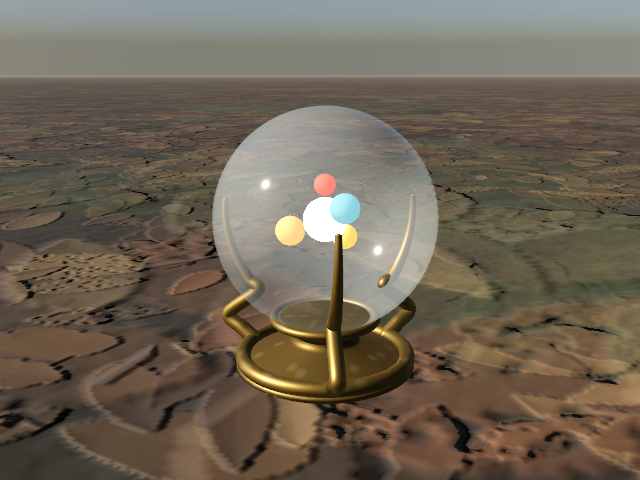
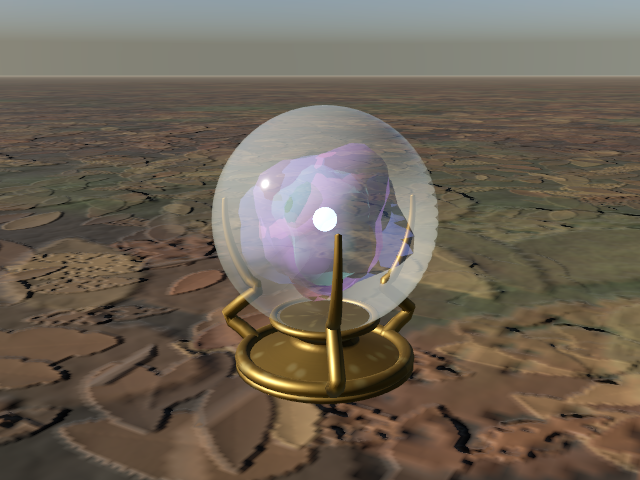
Fix crystal-ball budget; add plush-cat

diff --git a/Sources/RealLibrary/Props/Toys/PlushCat.swift b/Sources/RealLibrary/Props/Toys/PlushCat.swift
@@ -1,0 +1,88 @@
+import simd
+import Foundation
+
+/// Plush toy cat, 30 cm tall sitting: white and orange fuzzy pile, glossy eyes, pink nose, triangular ears and
+/// a curled tail. Faces +Z.
+public struct PlushCat: RealAsset {
+    public static let id = "plush-cat"
+    public static let summary = "Plush cat toy: 30 cm sitting, fuzzy white and orange pile, glossy eyes, pink nose, triangular ears, curled tail."
+    public static let tags = ["prop", "toy", "handheld"]
+    public static let budget = 15_000
+    public static let author = "realityhd"
+    public static let preview = PreviewHint(azimuth: 25, elevation: 12)
+
+    /// Main pile fabric key.
+    public var white = "fabric.plush-white"
+    /// Patch pile fabric key.
+    public var orange = "fabric.plush-orange"
+    /// Fur noise amplitude as a fraction of radius.
+    public var fuzz: Float = 0.035
+    public init() {}
+
+    static func puff(_ size: V3, _ mat: String, sub: Int = 9, amp: Float, ph: Float, exponent: Float = 2.4) -> Surface {
+        Prim.superellipsoid(size, exponent: exponent, subdivisions: sub, material: mat, bulge: { d in
+            let n = sin(d.x * 17 + ph) * sin(d.y * 19 - ph) + sin(d.z * 23 + d.x * 11 + ph * 2) * 0.7
+            return 1 + amp * n
+        })
+    }
+
+    public func build(seed: UInt64) -> LODModel {
+        var m = Model(name: Self.id)
+        func add(_ s: Surface, _ p: V3, rx: Float = 0, ry: Float = 0, rz: Float = 0) {
+            let q = simd_quatf(angle: ry, axis: V3(0, 1, 0)) * simd_quatf(angle: rx, axis: V3(1, 0, 0)) * simd_quatf(angle: rz, axis: V3(0, 0, 1))
+            m.add(s, Xform(translation: p, rotation: q))
+        }
+        // Body pear, haunches, chest.
+        add(Self.puff(V3(0.17, 0.18, 0.16), white, sub: 9, amp: fuzz, ph: 1), V3(0, 0.092, 0))
+        add(Self.puff(V3(0.175, 0.178, 0.165), "fabric.fuzz-white", sub: 6, amp: fuzz, ph: 1), V3(0, 0.092, 0))
+        add(Self.puff(V3(0.07, 0.1, 0.12), orange, sub: 8, amp: fuzz, ph: 3), V3(0.07, 0.06, -0.012))
+        add(Self.puff(V3(0.07, 0.1, 0.12), orange, sub: 8, amp: fuzz, ph: 4), V3(-0.07, 0.06, -0.012))
+        add(Self.puff(V3(0.1, 0.1, 0.07), orange, sub: 8, amp: fuzz, ph: 5), V3(0.0, 0.15, -0.05))   // back saddle
+        // Front paws.
+        for sx: Float in [-1, 1] {
+            add(Self.puff(V3(0.04, 0.07, 0.05), white, sub: 7, amp: fuzz, ph: 6 + sx), V3(sx * 0.03, 0.035, 0.075))
+            add(Self.puff(V3(0.05, 0.03, 0.07), white, sub: 7, amp: fuzz, ph: 8 + sx), V3(sx * 0.07, 0.015, 0.045))
+        }
+        // Head, fuzz halo, forehead and cheek patches, muzzle.
+        let yh: Float = 0.215
+        add(Self.puff(V3(0.16, 0.135, 0.135), white, sub: 10, amp: fuzz, ph: 2), V3(0, yh, 0.005))
+        add(Self.puff(V3(0.166, 0.14, 0.14), "fabric.fuzz-white", sub: 6, amp: fuzz, ph: 2), V3(0, yh, 0.005))
+        add(Self.puff(V3(0.08, 0.07, 0.1), orange, sub: 8, amp: fuzz, ph: 7), V3(0.045, yh + 0.036, -0.006), rz: -0.3)
+        add(Self.puff(V3(0.08, 0.07, 0.1), orange, sub: 8, amp: fuzz, ph: 9), V3(-0.045, yh + 0.036, -0.006), rz: 0.3)
+        add(Self.puff(V3(0.07, 0.05, 0.05), white, sub: 10, amp: fuzz * 0.6, ph: 10), V3(0, yh - 0.03, 0.058))
+        // Ears: squashed cones, orange outside, pink inside.
+        for sx: Float in [-1, 1] {
+            let cone: [V2] = [V2(0.0006, 0.045), V2(0.012, 0.03), V2(0.026, 0.01), V2(0.033, 0.0), V2(0.0006, 0.0)]
+            let outer = Prim.lathe(cone, segments: 16, seamTile: 1, material: orange).transformed(Xform(scale: V3(1, 1, 0.42)))
+            let inner = Prim.lathe(cone, segments: 16, seamTile: 1, material: "fabric.plush-pink").transformed(Xform(scale: V3(0.68, 0.8, 0.3)))
+            add(outer, V3(sx * 0.058, yh + 0.052, -0.004), rx: 0.12, rz: -sx * 0.32)
+            add(inner, V3(sx * 0.058 - sx * 0.003, yh + 0.052, 0.006), rx: 0.12, rz: -sx * 0.32)
+        }
+        // Eyes: glossy dark beads with a small catchlight.
+        for sx: Float in [-1, 1] {
+            add(Prim.superellipsoid(V3(0.024, 0.028, 0.014), exponent: 2, subdivisions: 8, material: "plastic.gloss:14100C"),
+                V3(sx * 0.037, yh + 0.004, 0.066), ry: sx * 0.35)
+            add(Prim.superellipsoid(V3(0.006, 0.006, 0.004), exponent: 2, subdivisions: 5, material: "plastic.gloss:FFFFFF"),
+                V3(sx * 0.037 + 0.004, yh + 0.012, 0.0725), ry: sx * 0.35)
+        }
+        // Nose: small rounded triangle, pink.
+        add(Prim.superellipsoid(V3(0.017, 0.012, 0.012), exponent: 3, subdivisions: 8, material: "plastic.gloss:E58A9C"), V3(0, yh - 0.012, 0.0755))
+        // Tail: curled sweep from the rump around the right side, orange with a white tip.
+        var pts: [V3] = []
+        for i in 0...10 {
+            let t = Float(i) / 10
+            let a = Float.pi * (0.9 + 1.0 * t)
+            pts.append(V3(0.08 * cos(a) + 0.02, 0.012 + 0.07 * t * t, -0.07 + 0.13 * sin(a) * 0.9 - 0.06 * (1 - t)))
+        }
+        let path = catmull(pts, per: 2)
+        let radii = (0..<path.count).map { i -> Float in
+            let t = Float(i) / Float(path.count - 1)
+            return 0.021 - 0.005 * t * t + (t > 0.97 ? -0.004 : 0)
+        }
+        m.add(Prim.tube(path, radii: radii, sides: 10, seamTile: 1, material: orange, capEnd: true), Xform())
+        let tip = Array(path.suffix(8)), tipR = Array(radii.suffix(8)).map { $0 + 0.0015 }
+        m.add(Prim.tube(tip, radii: tipR, sides: 10, seamTile: 1, material: white, capEnd: true), Xform())
+        groundAO(&m)
+        return LODModel(m)
+    }
+}

diff --git a/Sources/RealLibrary/Props/Fantasy/CrystalBall.swift b/Sources/RealLibrary/Props/Fantasy/CrystalBall.swift
@@ -14,7 +14,7 @@ public struct CrystalBall: RealAsset {
     /// Sphere radius in meters (12 cm diameter).
     public var radius: Float = 0.06
     /// Radial segments of the glass sphere.
-    public var segments = 96
+    public var segments = 64
     /// Outer glass material key.
     public var glass = "glass.clear"
     /// Stand metal material key.
@@ -24,7 +24,7 @@ public struct CrystalBall: RealAsset {
     public init() {}
 
     static func sphere(_ r: Float, segments: Int, material: String) -> Surface {
-        let n = max(32, segments / 2)
+        let n = max(24, segments / 2)
         var pts: [V2] = []
         for i in 0...n {
             let a = Float.pi * Float(i) / Float(n)
@@ -43,9 +43,9 @@ public struct CrystalBall: RealAsset {
                       (0.026, 0.0295), (0.0, 0.0295)], material: brass),
               Xform())
         // Base ring and bead ring.
-        m.add(Prim.torus(major: 0.046, minor: 0.0042, segments: 72, sides: 24, material: brass),
+        m.add(Prim.torus(major: 0.046, minor: 0.0042, segments: 48, sides: 12, material: brass),
               Xform(translation: V3(0, 0.0072, 0)))
-        m.add(Prim.torus(major: 0.0285, minor: 0.0024, segments: 64, sides: 16, material: brass),
+        m.add(Prim.torus(major: 0.0285, minor: 0.0024, segments: 40, sides: 8, material: brass),
               Xform(translation: V3(0, 0.0285, 0)))
         // Three curved claws: foot at the ring, S-curve out, then an arc hugging the glass, tapering to talons.
         let rc = radius + 0.0018
@@ -59,27 +59,34 @@ public struct CrystalBall: RealAsset {
                 let el = (-48 + 54 * Float(j) / 8) * Float.pi / 180
                 pts.append(V3(0, yc, 0) + dirv * (rc * cos(el) + 0.0016) + V3(0, rc * sin(el), 0))
             }
-            let path = catmull(pts, per: 8)
+            let path = catmull(pts, per: 2)
             let radii = (0..<path.count).map { i -> Float in
                 let t = Float(i) / Float(path.count - 1)
                 return 0.0046 * (1 - t) + 0.0016 * t
             }
-            m.add(Prim.tube(path, radii: radii, sides: 24, seamTile: 1, material: brass, capEnd: true), Xform())
-            m.add(Prim.superellipsoid(V3(0.0085, 0.0085, 0.0085), exponent: 2, subdivisions: 4, material: brass),
+            m.add(Prim.tube(path, radii: radii, sides: 10, seamTile: 1, material: brass, capEnd: true), Xform())
+            m.add(Prim.superellipsoid(V3(0.0085, 0.0085, 0.0085), exponent: 2, subdivisions: 3, material: brass),
                   Xform(translation: pts[0]))
         }
         // Glass sphere and thin inner shell for depth.
         m.add(Self.sphere(radius, segments: segments, material: glass), Xform(translation: V3(0, yc, 0)))
-        m.add(Self.sphere(radius * 0.93, segments: segments, material: "glass.quartz").flipped(), Xform(translation: V3(0, yc, 0)))
-        // Nebula: bright core with off-centre lobes of different colors.
-        m.add(Self.sphere(0.012, segments: 48, material: coreMaterial), Xform(translation: V3(0, yc, 0)))
-        let lobes: [(V3, Float, String)] = [(V3(0.014, 0.008, 0.004), 0.008, "emissive.holo-grid"),
-                                           (V3(-0.016, -0.006, 0.01), 0.008, "emissive.signal-orange"),
-                                           (V3(0.004, -0.012, -0.015), 0.007, "emissive.amber"),
-                                           (V3(-0.006, 0.017, -0.01), 0.006, "emissive.signal-red")]
-        for (o, r, mat) in lobes {
-            m.add(Self.sphere(r, segments: 32, material: mat), Xform(translation: V3(0, yc, 0) + o))
+        m.add(Self.sphere(radius * 0.93, segments: 32, material: "glass.quartz").flipped(), Xform(translation: V3(0, yc, 0)))
+        // Nebula: overlapping translucent, noise-bulged ellipsoid sheets tilted around the centre. Each sheet is a
+        // different tint, so the colors blend into swirling fog; a small hot core sits inside.
+        let sheets: [(Float, Float, Float, Float, String)] = [   // size, tilt x, tilt z, twist, material
+            (0.104, 0.0, 0.0, 0.0, "emissive.nebula-blue"), (0.098, 1.1, 0.5, 1.7, "emissive.nebula-violet"),
+            (0.090, 0.4, 1.2, 3.1, "emissive.nebula-magenta"), (0.080, 1.8, 0.9, 4.4, "emissive.nebula-teal"),
+            (0.066, 0.7, 2.1, 5.6, "emissive.nebula-violet")]
+        for (k, (size, tx, tz, tw, mat)) in sheets.enumerated() {
+            let ph = tw + Float(k)
+            let bulge: (V3) -> Float = { d in
+                let a = sin(d.x * 4.1 + ph) * sin(d.y * 3.3 - ph * 0.7) + sin(d.z * 5.2 + d.x * 2.1 + ph * 1.3) * 0.6
+                return 0.82 + 0.16 * a
+            }
+            m.add(Prim.superellipsoid(V3(size, size * 0.78, size * 0.92), exponent: 2, subdivisions: 7, material: mat, bulge: bulge),
+                  Xform(translation: V3(0, yc, 0), rotation: simd_quatf(angle: tx, axis: V3(1, 0, 0)) * simd_quatf(angle: tz, axis: V3(0, 0, 1))))
         }
+        m.add(Self.sphere(0.0065, segments: 24, material: coreMaterial), Xform(translation: V3(0, yc, 0)))
         groundAO(&m)
         return LODModel(m)
     }

diff --git a/Sources/RealMaterials/Library/Fantasy.swift b/Sources/RealMaterials/Library/Fantasy.swift
@@ -1,0 +1,37 @@
+import RealCore
+
+public extension MaterialLibrary {
+    /// Fantasy and toy materials: translucent nebula fog tints, plush pile fabrics.
+    static let fantasy: [MaterialSpec] = [
+        // Crystal ball nebula layers: soft self-lit translucent shells that blend where they overlap.
+        nebula("emissive.nebula-blue", base: V3(0.1, 0.2, 0.8), glow: V3(0.2, 0.45, 1.0)),
+        nebula("emissive.nebula-violet", base: V3(0.4, 0.1, 0.8), glow: V3(0.6, 0.25, 1.0)),
+        nebula("emissive.nebula-magenta", base: V3(0.8, 0.1, 0.5), glow: V3(1.0, 0.25, 0.65)),
+        nebula("emissive.nebula-teal", base: V3(0.05, 0.6, 0.6), glow: V3(0.15, 0.95, 0.85)),
+        // Plush pile fabrics, dense soft nap, sheen at grazing angles.
+        plush("fabric.plush-white", color: 0xF6F2EA, shade: 0xD9D2C6, seed: 3101),
+        plush("fabric.plush-orange", color: 0xE98A33, shade: 0xB86018, seed: 3102),
+        plush("fabric.plush-pink", color: 0xF0A3B4, shade: 0xC87080, seed: 3103),
+        // Translucent fuzz halo shells over plush bodies.
+        MaterialSpec(key: "fabric.fuzz-white", program: nil).with {
+            $0.baseColor = V3(0.93, 0.9, 0.84); $0.roughness = 1; $0.mode = .transparent; $0.opacity = 0.22; $0.twoSided = true
+        },
+        MaterialSpec(key: "fabric.fuzz-orange", program: nil).with {
+            $0.baseColor = V3(0.8, 0.38, 0.1); $0.roughness = 1; $0.mode = .transparent; $0.opacity = 0.22; $0.twoSided = true
+        },
+    ]
+
+    private static func nebula(_ key: MaterialKey, base: V3, glow: V3) -> MaterialSpec {
+        MaterialSpec(key: key, program: nil).with {
+            $0.baseColor = base; $0.roughness = 0.9; $0.mode = .transparent; $0.opacity = 0.16; $0.twoSided = true
+            $0.emissive = glow; $0.emissiveIntensity = 3.2
+        }
+    }
+
+    private static func plush(_ key: MaterialKey, color: UInt32, shade: UInt32, seed: UInt32) -> MaterialSpec {
+        MaterialSpec(key: key, program: .fabricWeave).with {
+            $0.colorA = linear(color); $0.colorB = linear(shade, 0.6); $0.colorC = linear(0xFFFFFF, 0.1)
+            $0.knobs = V4(160, 0.9, 0.8, 0); $0.seed = seed; $0.tileSize = 0.012; $0.normalStrength = 1.6; $0.roughness = 0.95
+        }
+    }
+}

diff --git a/Sources/RealMaterials/MaterialSpec.swift b/Sources/RealMaterials/MaterialSpec.swift
@@ -122,7 +122,7 @@ public func linear(_ hex: UInt32, _ a: Float = 1) -> V4 {
 /// Specs live in `Library/<Family>.swift`; add a family array to `all` when creating a new file.
 public enum MaterialLibrary {
     /// Every built-in spec, in catalog order. Keys are unique (tested).
-    public static let all: [MaterialSpec] = bark + foliage + stone + wood + metal + mineral + plastic + masonry + emissive + plants + industrial + ground + conifer + rock + fabric + woodExtra + water + groundBlend + groundBlends + wild + craft + office + sports + sportsGear + medical + medicalSurgical + medicalDiagnostic + medicalBedside + medicalPatient + medicalTheatre + medicalClinic + medicalHospitalStructures + medicalHospitalLobby + anatomy + woodshop + pantry + kitchen + cookware + food + landscaping + recipeFood + architecture + city + facade + vehicle + utility + lineman + insect + fauna + paint + aerospace + roadster + timeCoupe + river + fish + tackle + hunting + terawattDC + terawattFab + terawattChip + terawattSite + regolith + roofSedum + dino + environment
+    public static let all: [MaterialSpec] = bark + foliage + stone + wood + metal + mineral + plastic + masonry + emissive + plants + industrial + ground + conifer + rock + fabric + woodExtra + water + groundBlend + groundBlends + wild + craft + office + sports + sportsGear + medical + medicalSurgical + medicalDiagnostic + medicalBedside + medicalPatient + medicalTheatre + medicalClinic + medicalHospitalStructures + medicalHospitalLobby + anatomy + woodshop + pantry + kitchen + cookware + food + landscaping + recipeFood + architecture + city + facade + vehicle + utility + lineman + insect + fauna + paint + aerospace + roadster + timeCoupe + river + fish + tackle + hunting + terawattDC + terawattFab + terawattChip + terawattSite + regolith + roofSedum + dino + environment + fantasy
 
     public static let keys: [MaterialKey] = all.map { $0.key }
 

diff --git a/Sources/RealLibrary/Props/Props.swift b/Sources/RealLibrary/Props/Props.swift
@@ -1443,6 +1443,7 @@ public enum Props {
         TitanMech.self,
         CrystalBall.self,
         CashBrick.self,
+        PlushCat.self,
         // realityhd:prop
     ]
 }

diff --git a/CATALOG.md b/CATALOG.md
@@ -148,7 +148,7 @@ Generated by `swift run -q realityhd catalog`. Do not edit by hand.
 | `crayfish-chimney` | nature, ground, river | 5316 / 1000 | 6400 | `ground.mud` `ground.mud:4F3E2C` `ground.mud:6B5640` `ground.mud:5A4833` `ground.mud:76624A` `ground.mud:4A3A2A` `ground.mud:1E1812` | realityhd | Fifteen-centimeter crayfish burrow chimney of stacked mud pellets around a dark hole on a mud apron. |
 | `mud-tracks` | nature, ground, river | 5688 / 1120 | 6000 | `ground.mud` | realityhd | Fifty-centimeter river mud patch pressed with raccoon, deer and heron tracks and raised displacement rims. |
 | `sand-ripples` | nature, ground, river | 6360 / 1088 | 6500 | `ground.sand` `rock.river:8A8272` `rock.river:B0A592` `rock.river:C4B8A2` `rock.river:9A9080` `rock.river:A39581` | realityhd | Eighty-centimeter river sand patch with wandering flow ripple marks and tiny scattered pebbles. |
-| `feather-scatter` | nature, ground | 186 | 700 | `fauna.feather:B5A998` `fauna.feather:C9BBA0` `fauna.feather:6B6256` `fauna.feather:F2EEE4` `fauna.feather:A08C70` | realityhd | Six to ten loose feathers (flight, contour and down) of 3 to 20 cm lying on the ground. |
+| `feather-scatter` | nature, ground | 186 | 700 | `fauna.feather:A08C70` `fauna.feather:F2EEE4` `fauna.feather:6B6256` `fauna.feather:C9BBA0` `fauna.feather:B5A998` | realityhd | Six to ten loose feathers (flight, contour and down) of 3 to 20 cm lying on the ground. |
 | `ground-nest` | nature, ground, stone | 3248 / 464 | 3400 | `ground.dirt` `rock.river:888070` `rock.river:5E5342` `rock.river:7D7464` `rock.river:544F46` `rock.river:6C665B` `rock.limestone:D8C48F` `ground.dirt:3E2F22` | realityhd | Killdeer scrape nest, 15 cm, a shallow dirt bowl ringed with pebbles holding four speckled eggs. |
 | `eggshell-fragments` | nature, ground | 1792 | 2200 | `insect.chitin:5592B5` `insect.chitin:A9C4C4` `insect.chitin:74B4B0` `insect.chitin:5E9FBE` `insect.chitin:6AAFB4` | realityhd | Five to eight hatched pale blue eggshell shards of 1 to 3 cm, curved with jagged rims. |
 | `snail-shell` | nature, ground | 2421 / 674 | 2600 | `insect.chitin:B88A4A` `insect.chitin:C9A465` `insect.chitin:A9763A` `insect.chitin:D2B77A` `ground.mud:A89C80` `ground.mud:8E8268` `insect.chitin:1A1612` `insect.chitin:9A6B38` | realityhd | Four empty banded garden snail shells of 2 to 3 cm and one live snail with antennae. |
@@ -1757,8 +1757,9 @@ Generated by `swift run -q realityhd catalog`. Do not edit by hand.
 | `steam-locomotive` | prop, vehicle, rail, locomotive, steam, outdoor, articulated | 29904 / 14590 | 30000 | `metal.painted:3A7D4B` `metal.powdercoat-worn:2A2A2C` `metal.rust-grime` `metal.steel` `metal.painted:16181B` `metal.brass` `metal.stainless` `metal.copper` `emissive.lamp-white` `metal.cast-iron-worn` `metal.painted:9E1B20` `metal.brass-aged` `metal.grate-iron` `glass.cabin` `wood.pine-aged` `ablative.char-heavy` `metal.painted:34373C` `emissive.flame` | realityhd | Steam locomotive, 22 m 4-6-2 with tender: lofted boiler, brass domes, spoked drivers with rods, cab, headlamp, whistle, firebox door, coal load. |
 | `western-dragon` | prop, fantasy, creature, outdoor, articulated | 14396 / 4620 | 15000 | `dino.dragon-scale` `plastic.gloss:241E18` `emissive.ember` `fish.mouth` `plastic.gloss:D8CDB4` `plastic.black` `leather.oxblood-worn` | realityhd | Western dragon, 16 m with a 22 m wingspan: charcoal and ember scales, horned head, glowing eyes, throat and tongue, spines, membrane wings, joints flap, jaw, neck, tail. |
 | `titan-mech` | prop, vehicle, robot, mech, metal, outdoor, articulated | 97644 / 24958 | 28000 | `metal.painted:E9EAE6` `metal.anodized-gunmetal` `metal.painted:E4571B` `rubber.tubing` `metal.chrome` `emissive.thruster-cyan` `emissive.amber` `glass.lens-coated:0A0E14` | realityhd | Titan mech, 18 m: white and orange chamfered armour, hydraulic pistons, glowing chest reactor, amber visor, missile pods, arm cannon, walking rig. |
-| `crystal-ball` | prop, decor, fantasy, glass, metal, handheld | 49480 | 24000 | `metal.brass-aged` `glass.clear` `glass.quartz` `emissive.flux-coil` `emissive.holo-grid` `emissive.signal-orange` `emissive.amber` `emissive.signal-red` | realityhd | Crystal ball: 12 cm clear glass sphere with a glowing nebula core on a turned brass claw stand. |
+| `crystal-ball` | prop, decor, fantasy, glass, metal, handheld | 14150 | 15000 | `metal.brass-aged` `glass.clear` `glass.quartz` `emissive.nebula-blue` `emissive.nebula-violet` `emissive.nebula-magenta` `emissive.nebula-teal` `emissive.flux-coil` | realityhd | Crystal ball: 12 cm clear glass sphere with a glowing nebula core on a turned brass claw stand. |
 | `cash-brick` | prop, finance, paper, handheld | 1608 | 12000 | `paper.bill-edge` `paper.banknote` `paper.sheet:D9B66B` | realityhd | Brick of green banknotes, 16x7x4 cm, banded with a paper strap, printed top note. |
+| `plush-cat` | prop, toy, handheld | 14404 | 15000 | `fabric.plush-white` `fabric.fuzz-white` `fabric.plush-orange` `fabric.plush-pink` `plastic.gloss:14100C` `plastic.gloss:FFFFFF` `plastic.gloss:E58A9C` | realityhd | Plush cat toy: 30 cm sitting, fuzzy white and orange pile, glossy eyes, pink nose, triangular ears, curled tail. |
 
 ## Structures
 
@@ -3211,6 +3212,15 @@ Keys accept a hex tint suffix, e.g. `metal.painted:1F4E8C`.
 | `water.deep` | scalar | 1 | - | opaque | - |  |
 | `rock.alpine-peak` | strataRock | 40 | 1024 | opaque | - | triplanar, moss layer |
 | `rock.cave` | rockGranite | 1.5 | 1024 | opaque | - | triplanar |
+| `emissive.nebula-blue` | scalar | 1 | - | transparent | - |  |
+| `emissive.nebula-violet` | scalar | 1 | - | transparent | - |  |
+| `emissive.nebula-magenta` | scalar | 1 | - | transparent | - |  |
+| `emissive.nebula-teal` | scalar | 1 | - | transparent | - |  |
+| `fabric.plush-white` | fabricWeave | 0.012 | 1024 | opaque | - |  |
+| `fabric.plush-orange` | fabricWeave | 0.012 | 1024 | opaque | - |  |
+| `fabric.plush-pink` | fabricWeave | 0.012 | 1024 | opaque | - |  |
+| `fabric.fuzz-white` | scalar | 1 | - | transparent | - |  |
+| `fabric.fuzz-orange` | scalar | 1 | - | transparent | - |  |
 
 ## Texture programs
 
